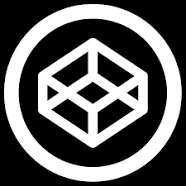
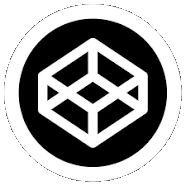
bkGroundGray

Changed region(s): [[0.0, 0.0, 1.0, 1.0]]

diff --git a/git/index.html b/git/index.html
@@ -34,7 +34,7 @@
     <li><a href="#micro">MicroSoft - <kbd>Ctrl</kbd> + Keys</a></li>
     <li><a href="#howsymb">MicroSoft - <kbd>Alt</kbd> + Keys</a></li>
     <li><a href="#howview">How view code in Android</a></li>    
-    <li class="sign3"><a href="html_1.html" target="_blank">HTML Info</a></li>    
+    <li class="sign3"><a href="html_1.html" target="_blank">HTML Info</a></li>
     <li><a href="#symbols">Коды символов Unicode</a></li>
     <ul>
         <li><a href="#symbolsTips">Инструкция вставки спецсимволов через CSS и JS</a></li> 
@@ -42,12 +42,11 @@
     <li><a href="#symbolDim">Symbol's Dimentions</a></li> 
     <li><a href="#flexBox1">Flexbox</a></li> 
     <li><a href="#colors">Коды цветов для CSS JS</a></li>    
-    <li><a href="#selectors">CSS Selectors</a></li>    
+    <li><a href="#selectors">CSS Selectors</a></li>
     <li><a href="#selector_how">CSS Selector - How Do It</a></li>    
     <li><a href="#selector_exs1">CSS Selectors - Example</a></li>    
     <li><a href="#margin+padding">CSS Margins &amp; Paddings</a></li>    
     <li><a href="#regexp">RegExp</a></li>
-    <li><a href="#brackets">Brackets &amp; Embed - Hot Keys</a></li>    
 </ul>
 <hr>
 
@@ -505,38 +504,7 @@ p.str8 {
 <img src="../data/JS-RegExp_table.png" width="851" alt="selectors">
 
 
-<!-- Brackets -->
-<h2 id="brackets">Brackets &amp; Embed - Hot Keys <a href="#"><img src="../img/ArrowTop32.png" alt="Arrow"></a></h2>
-<table class="wdt firstColumn25">
-    <tr><th colspan="2">Brackets - Keys</th></tr>
-    <tr><td><kbd>Ctrl</kbd> + E</td><td>Быстрое редактирование</td></tr>
-    <tr><td><kbd>Ctrl</kbd> + K</td><td>Быстрая документация</td></tr>
-    <tr><td><kbd>Ctrl</kbd> + D</td><td>Дублировать строку</td></tr>
-    <tr><td><kbd>Ctrl</kbd> + G</td><td>Перейти к строке</td></tr>
-    <tr><td><kbd>Ctrl</kbd> + <kbd>Shift</kbd> + D</td><td>Delete Line</td></tr>
-    <tr><td><kbd>Ctrl</kbd> + <kbd>Shift</kbd> + &#8593; / &#8595;</td><td>Move Line - up/down</td></tr>
-    <tr><td><kbd>Ctrl</kbd> + /</td><td>Line comment - ON/OFF</td></tr>
-    <tr><td><kbd>Ctrl</kbd> + <kbd>Shift</kbd> + /</td><td>Block comment - ON/OFF</td></tr>    
-    <tr><td><kbd>Ctrl</kbd> + Pg Down</td><td>Next Document in List</td></tr>    
-    <tr><td><kbd>Ctrl</kbd> + Pg Up</td><td>Prev Document in List</td></tr>    
-    <tr><td><kbd>Ctrl</kbd> + <kbd>Alt</kbd> + H</td><td>Left panel show/hide</td></tr>
-    <tr><td><kbd>Ctrl</kbd> + S</td><td>Save this File</td></tr>
-    <tr><td><kbd>Ctrl</kbd> + <kbd>Alt</kbd> + S</td><td>Save all Files</td></tr>
-    <tr><th colspan="2">HTML Format - Keys</th></tr>
-    <tr><td><kbd>Alt</kbd> + A</td><td>Anchor</td></tr>
-    <tr><td><kbd>Alt</kbd> + P</td><td>Paragraph</td></tr>
-    <tr><td><kbd>Alt</kbd> + H</td><td>H1</td></tr>
-    <tr><td><kbd>Alt</kbd> + <kbd>Shift</kbd> + H</td><td>h4</td></tr>
-    <tr><td><kbd>Alt</kbd> + S</td><td>Span</td></tr>
-    <tr><td><kbd>Alt</kbd> + D</td><td>Div</td></tr>
-    <tr><td><kbd>Alt</kbd> + T</td><td>Empty Tag</td></tr>
-    <tr><th colspan="2">Emmet - Keys</th></tr>
-    <tr><td>Tab</td><td>Expand Tag</td></tr> 
-    <tr><td><kbd>Ctrl</kbd> + <kbd>Shift</kbd> + A</td><td>Wrap with abbreviation</td></tr>
-</table>
-    <!-- Brackets -->
-
-<footer><div>Pol Banky &#169; 2021</div></footer>
+<footer><div>Pol Banky &#169; 2022</div></footer>
     <script src="../js/fs.js"></script>
     <script src="../js/uni.js"></script>
 </body>

diff --git a/some/index.html b/some/index.html
@@ -51,8 +51,8 @@
 	<li><a href="#sport1">Sport 1</a></li>
 	<li><a href="#sport2">Sport 2</a></li>
 	<li><a href="#sport3">Sport 3</a></li>
-	<li><a href="#k2021">Календарь 2021</a></li>
 	<li><a href="#k2022">Календарь 2022</a></li>
+	<li><a href="#k2023">Календарь 2023</a></li>
 	<li class="sign"><a href="#percents">Per Cents</a></li>
 	<li><a href="#abc_rus">Русский алфавит</a></li>
 	<li><a href="#abc_eng">Английский алфавит</a></li>
@@ -395,13 +395,12 @@
 <img src="../data/effortless-fitness_880.png" width="880" alt="sport" title="и так каждый день !">
 
 
-	<h2 id="k2021">Календарь 2021 <a href="#"><i class="arr"></i></a></h2>
-<img src="../data/2021.png" width="880" alt="K2021">
-
-
 <h2 id="k2022">Календарь 2022 <a href="#"><i class="arr"></i></a></h2>
 <img src="../data/2022.png" width="880" alt="K2022">
 
+
+<h2 id="k2023">Календарь 2023 <a href="#"><i class="arr"></i></a></h2>
+<img src="../data/2023.png" width="880" alt="K2023">
 
  
 	<h2 id="percents">Per Cents <a href="#"><i class="arr"></i></a></h2>
@@ -476,7 +475,7 @@
 
 <hr>
 	
-<footer><img src="../img/pic.jpg" alt="pic"><div>Pol Banky &#169; 2021</div></footer>
+<footer><img src="../img/pic.jpg" alt="pic"><div>Pol Banky &#169; 2022</div></footer>
 								
 	<script src="../js/dep.js"></script>
 	<script src="../js/hello_input.js"></script>

diff --git a/css/main.css b/css/main.css
@@ -1,4 +1,7 @@
-html { background-image: url("../img/background_31.png"); }
+html { 
+	/* background-image: url("../img/background_35.png");  */
+	background-color: var(--bkgroundhtml);
+}
 
 * { box-sizing: border-box; } /* Setting height or width will control the size of the entire element, including its padding and border */
 
@@ -7,14 +10,14 @@ body {	/* RGB */ /* R+G = Yellow */ /* R+B = Magenta */ /* G+B = Cyan */
 	width: 900px;
 	font-family: Arial, sans-serif;
 	color: #b22222;     	    /* Цвет текста */
-	background-color: #ffffff;
+	background-color: var(--bkground);
 	margin: 30px auto 150px auto; /* top right bottom left */
 	border: 5px solid #aa2222;	/* !!!!!!!!!  CONTEXT'S WIDTH in BODY == 880px  !!!!!!!!! */
 	padding: 0px 5px 2px 5px;     /* top right bottom left */
-	box-shadow: 15px -12px 5px rgba(0,0,0,0.2);
+	/* box-shadow: 15px -12px 5px rgba(0,0,0,0.2); */
 }
 body.color { /* Сделать фон страницы цветным вместо стандартного белого */
-	background-color: #d2b48c;;	
+	background-color: #d2b48c;
 }
 
 h1 {

diff --git a/tech/index.html b/tech/index.html
@@ -5,14 +5,15 @@
 	<meta charset="utf-8">
 	<title>Tech Info</title>
 	<link rel="stylesheet" href="../css/style.css">
-	<link rel="shortcut icon" href="../img/machine_operator_128.png" type="img/x-icon">
+	<!-- <link rel="shortcut icon" href="../img/machine_operator_128.png" type="img/x-icon"> -->
+	<link rel="shortcut icon" href="../img/consulting.png" type="img/x-icon">
 </head>
 
 <body>
 <a href="help-techinfo.html" target="_blank">	<!--H E L P-->
 <img class="imgBtn64" src="../img/pic-question_128.png" alt="Question">
 </a>
-	<h1><img class="imgBtn64B" src="../img/machine_operator_128.png" alt="Tech Info">Tech Info</h1>
+	<h1><img class="imgBtn64B" src="../img/consulting.png" alt="Tech Info">Tech Info</h1>
   <h2>Table of Contents</h2>
 <ul class="tblCont">
 	<li><a href="#standard">Most Used Standards</a></li>

diff --git a/index.html b/index.html
@@ -35,7 +35,7 @@
 	<div class="mainPanelWrap">
 		<div> <!-- T E C H  I N F O -->
 			<a href="tech/index.html" target="_blank">
-			<img class="imgBtn128" src="img/machine_operator_128.png" alt="TechInfo" title="Tech Info">
+			<img class="imgBtn128" src="img/consulting.png" alt="TechInfo" title="Tech Info">
 			</a>
 		</div>
 		<div> <!-- S O P R O M A T -->
@@ -68,5 +68,4 @@
 	<hr>
 <footer><div>Pol Banky &#169; 2022</div></footer>
 	<script src="js/indexRoot.js"></script>
-</body>
-</html>
+</body></html>

diff --git a/inet/index.html b/inet/index.html
@@ -69,7 +69,7 @@
   <td>HTML Dog</td>
 </tr>
 <tr>
-  <td><a href="https://css-tricks.com/" target="_blank"><img src="../img/css-tricks.jpg" height="80" alt="css-tricks"></a></td>
+  <td><a href="https://css-tricks.com/" target="_blank"><img src="../img/css-tricks.png" height="80" alt="css-tricks"></a></td>
   <td>CSS-TRICKS</td>
 </tr>
 <tr>

diff --git a/sopromat/tubeC.html b/sopromat/tubeC.html
@@ -150,7 +150,7 @@
 	</tr>
 </table> <!-- ТАБЛИЦА 1 РЕЗУЛЬТАТОВ РАСЧЕТА -->
 
-	<footer><div>Pol Banky &#169; 2021</div></footer>
+	<footer><div>Pol Banky &#169; 2022</div></footer>
 	<script src="../js/float.js"></script>
 	<script src="../js/tubeC.js"></script>	
 </body>

diff --git a/css/commonData.css b/css/commonData.css
@@ -1,7 +1,9 @@
-/* :root {
-	--main-font: Helvetica, Arial, sans-serif;
-	--btn-inet-wdt: 100px;
-} */
+:root {
+	--bkgroundhtml: #333333;
+	--bkground: #dddddd;
+	/* --main-font: Helvetica, Arial, sans-serif; */
+	/* --btn-inet-wdt: 100px; */
+}
 
 .inlineBlockIt {
 	display: inline-block;

diff --git a/css/tables.css b/css/tables.css
@@ -19,6 +19,7 @@ th img {
 }
 td {
     font-size: 1.125em;
+	background-color: var(--bkgrndgray);
     padding: 0.5em 0.35em 0.3em 0.35em;
     border: 1px solid green;
 }

diff --git a/sopromat/index.html b/sopromat/index.html
@@ -39,6 +39,6 @@
 </div>
 	<hr>
 
-	<footer><div>Pol Banky &#169; 2021</div></footer>
+	<footer><div>Pol Banky &#169; 2022</div></footer>
 </body>
 </html>
